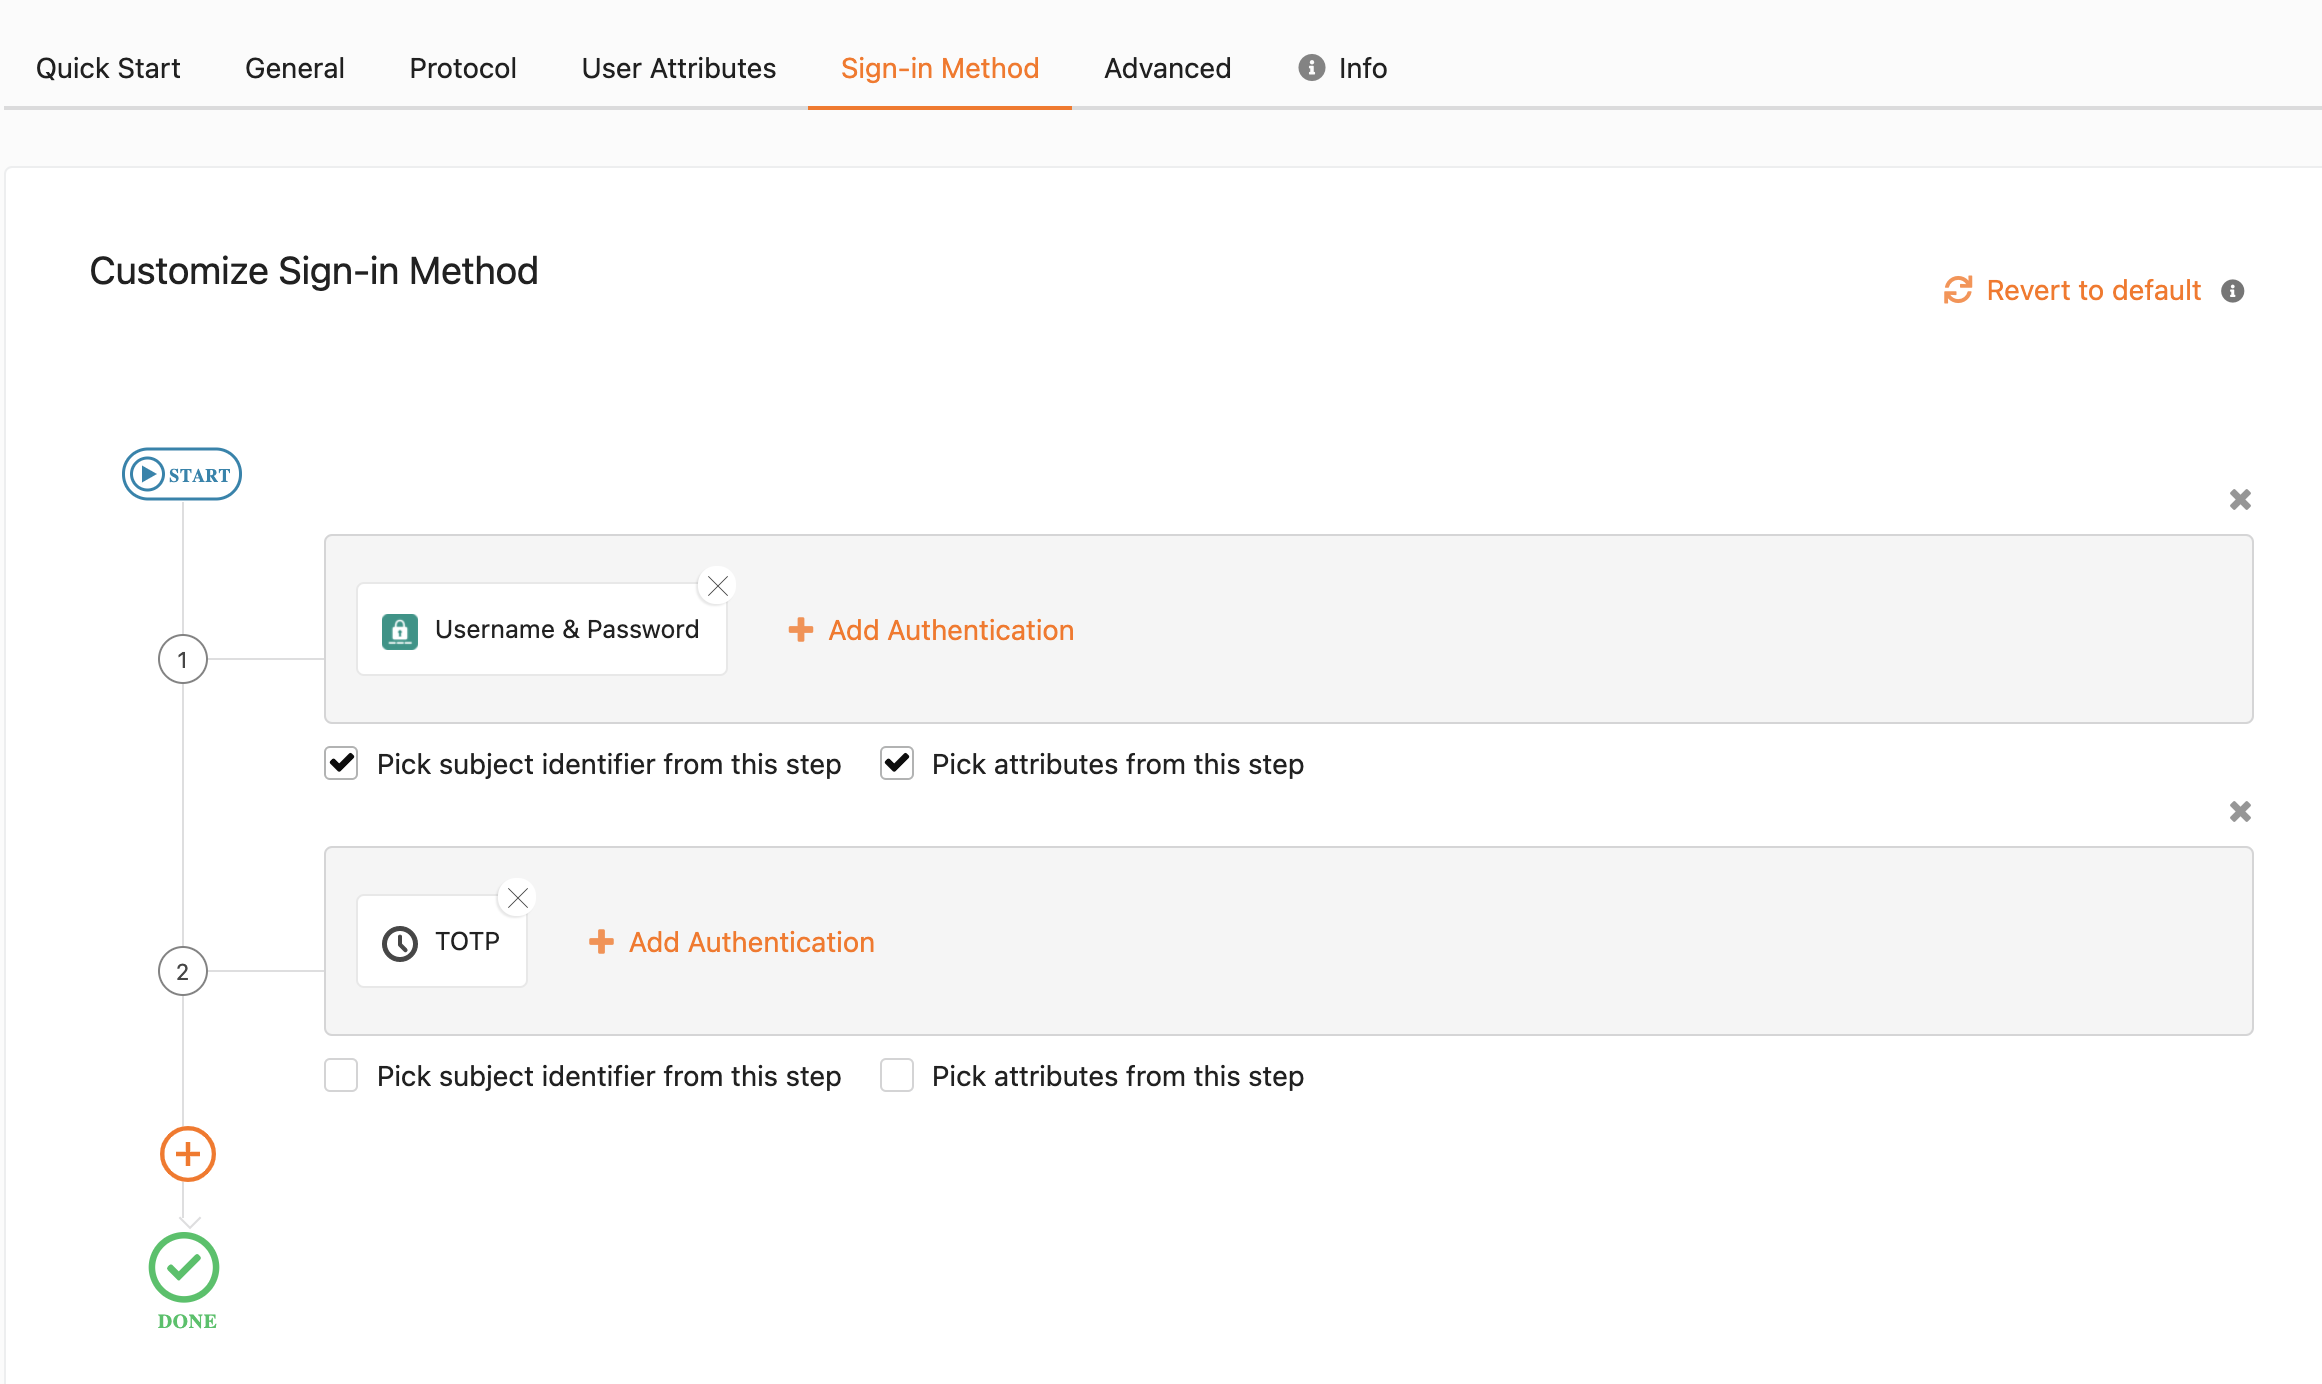
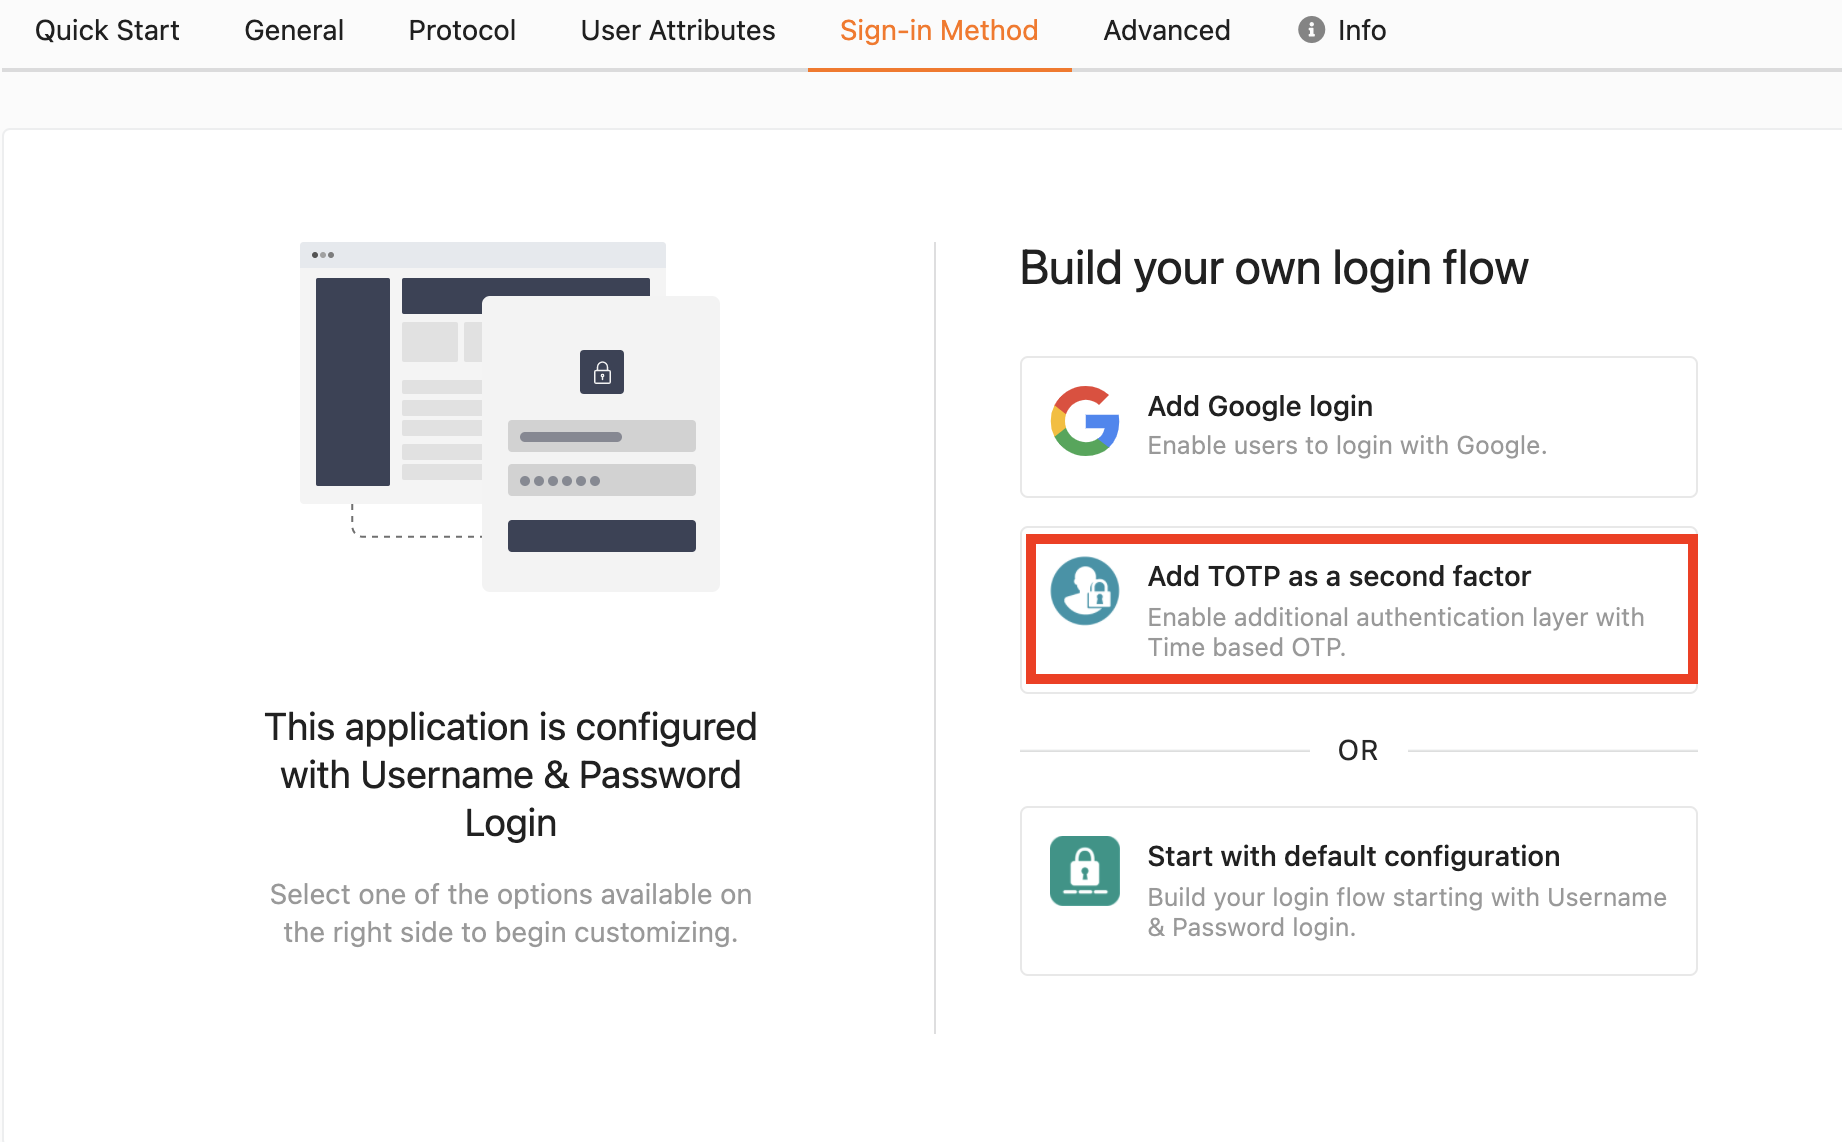
Tested MFA docs

diff --git a/docs/guides/authentication/mfa/add-totp-login.md b/docs/guides/authentication/mfa/add-totp-login.md
@@ -1,52 +1,68 @@
-# MFA with TOTP
+# Add MFA with TOTP
 
-The Time-based One Time Password(TOTP) is a temporary passcode, generated by an algorithm, which can be used only once. The algorithm that generates each password uses the current time of the day as one of its factors, ensuring that each password is unique.
+The Time-based One-Time Password (TOTP) is a temporary passcode, generated by an algorithm, which can be used only once. The algorithm that generates each password uses the current time of the day, which ensures that each password is unique.
 TOTP is considered more secure because the passcode is valid only for a short window of time. The TOTP generated by Asgardeo is valid for **30** seconds.
 
-TOTP authenticator uses the [TOTP specification](https://datatracker.ietf.org/doc/html/rfc6238) to calculate the access tokens based on the time and the shared secret key between the user and the identity provider.
-
-To use TOTP as a multi-factor authentication(MFA) option, users need to have an authenticator app that can scan the QR code and generate a one-time password. Some authenticator apps are:
+To use TOTP as a multi-factor authentication(MFA) option, application users need to have an authenticator app that can scan the QR code and generate a one-time password. Some authenticator apps are:
 - [Google Authenticator](https://play.google.com/store/apps/details?id=com.google.android.apps.authenticator2)
 - [Authy](https://play.google.com/store/apps/details?id=com.authy.authy)
 
+::: info
+TOTP authenticators use the [TOTP specification](https://datatracker.ietf.org/doc/html/rfc6238) to calculate access tokens based on the current time and the secret key shared between the user and the identity provider.
+:::
+
 ## Prerequisites
--   To get started, you need to have an application registered in Asgardeo. If you don't already have, register one of the following application types.
+-   To get started, you need to have an application registered in Asgardeo. If you don't already have one, register one of the following application types.
     -   <a :href="$withBase('/guides/applications/register-single-page-app/')">Single-page app</a>
     -   <a :href="$withBase('/guides/applications/register-oidc-web-app/')">Web app with OIDC</a>
     -   <a :href="$withBase('/guides/applications/register-saml-web-app/')">Web app with SAML</a>
 -   Download and install one of the authenticator apps mentioned above.
 
 ::: info Info
- - You can use TOTP for multi-factor authentication only if a previous authentication step is configured with **username and password** or another factor.   
+ - You can use TOTP for multi-factor authentication only if a previous authentication step is configured with **username and password** or another factor that can validate user credentials.
  - TOTP cannot be used as the first step of your login flow.
- - Federated users(users who are authenticated with external IdPs) can log in with TOTP MFA option.
+ - Federated users (users who are authenticated using external IdPs) can log in with TOTP MFA option.
 :::
 
-
 ## Enable TOTP for an app
-To enable TOTP as a factor for multi-factor authentication, you need to add **TOTP** in the authentication flow of an application. The steps given below will guide you on how to enable TOTP for an application:
-1. On the Asgardeo console, there are two ways to start enabling TOTP for an application. Follow either of the options given below.
- - Option1: Navigate to **Develop > Applications**.
- - Option2: Navigate to **Connections > TOTP** and click **Set up**.
-2. Select the application for which the TOTP needs to be added.
-3. Go to the **Sign-in Method** tab.
-4. Click **Add TOTP as a second factor**. This will add TOTP as a second factor authenticator.
-    <img :src="$withBase('/assets/img/guides/mfa/totp/add-totp-authenticator.png')" alt="Configuring TOTP authenticator in Asgardeo">
-5. Click **Update**.
+
+Follow the steps given below to enable **TOTP** as the second factor in the login flow of your application. 
+
+1. On the Asgardeo console, use one of the following options to start:
+    - Option 1: Go to **Develop > Applications**.
+    - Option 2: Go to **Connections > TOTP** and click **Set up**.
+2. Select the application for which TOTP needs to be added.
+3. Go to the **Sign-in Method** tab and add the TOTP authenticator:
+
+    - If you don't have a customized login flow, you can click **Add TOTP as a second factor**. 
+
+      <img :src="$withBase('/assets/img/guides/mfa/totp/add-totp-authenticator.png')" alt="Configuring TOTP authenticator in Asgardeo">
+    
+      This opens the customized login flow with TOTP as a second-factor authenticator:
+    
+    - If you have an already customized login flow, you can add a second step and add TOTP as the authenticator.
+
+      <img :src="$withBase('/assets/img/guides/mfa/totp/view-totp-authenticator.png')" alt="Customize the login flow">
+
+5. Click **Update** to save your changes.
 
 ## Enroll TOTP during first login 
-Users can enroll for TOTP notification from the first login to the business application using some authenticator apps. Follow the steps as a user who wants to access the authenticator app from your mobile and enroll to TOTP.
-1. Download authenticator.
-2. Log in to the application. You are prompted with a QR code.
-3. Scan the code and click **Continue**. 
+
+Application users can enroll for TOTP notifications when they log in to the business application the first time. Given below are the steps that a user will follow:
+
+1. Download an authenticator app to a mobile device.
+2. Try to log in to the application by providing credentials. The user is prompted with a QR code.
+3. Scan the QR code using the authenticator app, select the checkbox, and click **Continue**. 
     ::: info
-        This step is prompted only when you attempt to log in for the first time.
+    Note that this step is prompted only when the user attempts to log in for the first time.
     :::
     <img :src="$withBase('/assets/img/guides/mfa/totp/scan-qr-code-totp.png')" alt="QR code for TOTP authenticator in Asgardeo" width="500">
-4. Check your authenticator for which you used to scan the code.
+4. Check the authenticator app and see that the TOTP is generated.
     <img :src="$withBase('/assets/img/guides/mfa/totp/google-authenticator.png')" alt="OTP token from the authenticator" width="300">
-5. Enter the OTP by checking the authenticator app.
+5. Enter the TOTP:
     <img :src="$withBase('/assets/img/guides/mfa/totp/enter-otp-token.png')" alt="User enters OTP token in Asgardeo" width="300">
-6. Click **Continue**.
+6. Click **Continue** to continue login.
 
+::: info
 If the QR code is deleted from the authenticator app, there is no way to recover it from the application's end. In a scenario like this, the user should enroll TOTP through the <b>Multi Factor Authentication</b> option in the My Account portal. Learn more about <a :href="$withBase('/guides/user-self-service/enable-totp/')">enrolling TOTP from My Account</a>.
+:::

diff --git a/docs/guides/authentication/mfa/add-emailotp-login.md b/docs/guides/authentication/mfa/add-emailotp-login.md
@@ -1,4 +1,4 @@
-# MFA with Email OTP
+# Add MFA with Email OTP
 
 Email OTP is a One-Time Password (OTP) sent to the user's verified email address, which the user must submit during login (as an additional authentication step). This password is typically valid for a very short period of time. 
 
@@ -7,15 +7,15 @@ During Email OTP authentication, the user is required to access the verified ema
 Follow the instructions given below to configure Multi-Factor Authentication (MFA) using Email OTP in Asgardeo.
 
 ## Prerequisites
-To get started, you need to have an application registered in Asgardeo. If you don't already have one, register an application of one of the following application types.
+To get started, you need to have an application registered in Asgardeo. If you don't already have one, register an application for one of the following application types.
 
 -   <a :href="$withBase('/guides/applications/register-single-page-app/')">Single-page app</a>
 -   <a :href="$withBase('/guides/applications/register-oidc-web-app/')">Web app with OIDC</a>
 -   <a :href="$withBase('/guides/applications/register-saml-web-app/')">Web app with SAML</a>
 
 ::: info Info
-- You can use Email OTP for multi-factor authentication only if a previous authentication step is configured with **username and password**.  
-- Email OTP cannot be used as a first step in your login flow.
+- You can use Email OTP for multi-factor authentication only if a previous authentication step is configured with **username and password** or another factor that can validate user credentials.
+- Email OTP cannot be used as the first step in your login flow.
 :::
   
 ## Set up Email OTP
@@ -48,19 +48,22 @@ To update the default Email OTP settings:
 To enable Email OTP for MFA, you need to add **Email OTP** in the authentication flow of the application.
 
 Follow the steps given below.
-1. In the Asgardeo Console, go to **Develop > Applications**.
+1. On the Asgardeo Console, go to **Develop > Applications**.
 2. Select the application to add Email OTP.
 3. Go to the **Sign-in Method** tab of the selected application.
-4. Click **Start with default configuration**. 
-5. Add a new step and click **Add Authentication**.
-6. Select **Email OTP** and click **Add**.
+4. Click **Start with default configuration** and add a new step to the login flow.
+5. Click **Add Authentication**, select **Email OTP**, and click **Add**.
+   
+   ::: info
    This adds Email OTP as an authentication option for the configured step.
-    <img :src="$withBase('/assets/img/guides/mfa/emailotp/enable-email-otp.png')" alt="Enable email OTP authenticator in Asgardeo">
-7. Click **Update**.
+   :::
+
+   <img :src="$withBase('/assets/img/guides/mfa/emailotp/enable-email-otp.png')" alt="Enable email OTP authenticator in Asgardeo">
+6. Click **Update** to save your changes.
 
 ## How it works
 
-If Email OTP is enabled in the authentication flow of your application, the customer is prompted with the Email OTP authentication step once the first authentication step is completed. Given below are the high-level steps that follow:
+When Email OTP is enabled in the login flow of your application, the application user will be prompted with the Email OTP authentication step once the first authentication step is completed. Given below are the high-level steps that follow:
 
 1. Asgardeo sends the OTP to the user's verified email address.
 2. Asgardeo prompts the user to enter the OTP code.

diff --git a/docs/guides/authentication/mfa/README.md b/docs/guides/authentication/mfa/README.md
@@ -1,6 +1,6 @@
 # Add Multi-Factor Authentication
 
-Multi-Factor Authentication (MFA) allows you to grant access to your resources by using two (2-Factor) or more (Multi-Factor) factors to authenticate users. If one factor is compromised or broken, an attacker still has at least one more barrier to breach before successfully breaking into the resource. MFA provides an additional layer of security to the resource.
+Multi-Factor Authentication (MFA) allows you to grant access to your resources by using two (2-Factor) or more (Multi-Factor) factors to authenticate users. If one factor is compromised or broken, an attacker still has at least one more barrier to breach before successfully breaking in to the resource. MFA provides an additional layer of security to the resource.
 
 Authentication factors in MFA relies on two or more independent credentials of the three categories given below.
 
@@ -8,7 +8,7 @@ Authentication factors in MFA relies on two or more independent credentials of t
 - **Possession factor** - Something you have, such as a FIDO key or an ATM card.
 - **Inherence factor**  - Something you are, such as your fingerprint or your iris pattern.
 
-In Asgardeo, the default authentication mechanism is **username and password**. 
+On Asgardeo, the default authentication mechanism is **username and password**. 
 
 <img class="borderless-img" :src="$withBase('/assets/img/guides/mfa/one-factor-auth.png')" alt="Configuring only username and password authentication">
 
@@ -20,9 +20,16 @@ You can choose to replace the **username and password** authentication with soci
 
 ## Configure multi-factor authentication
 
-1. On the Asgardeo console, navigate to **Develop > Applications** and select the application to which MFA needs to be added.
-2. Go to **Sign-in Method**.
-3. Select **Add Authentication** in the step that you want to add an additional factor of authentication.
-3. Select a factor and click **Add**.
+Given below are the main steps you will follow when enabling MFA in your login flow.
+
+1. On the Asgardeo console, go to **Develop > Applications** and select the application to which MFA needs to be added.
+2. Go to the **Sign-in Method** tab where ther application login flow is defined.
+3. Select **Add Authentication** and add the required authenticators that should be enforced at each step.
     <img :src="$withBase('/assets/img/guides/mfa/totp/add-totp-authenticator.png')" alt="Configuring TOTP authenticator in Asgardeo">
-4. Click **Update**.
+
+## WHat's next?
+
+Learn how to enable MFA using the following authenticators:
+
+- <a :href="$withBase('/guides/authentication/mfa/add-totp-login/')">TOTP</a>
+- <a :href="$withBase('/guides/authentication/mfa/add-emailotp-login/')">Email OTP</a>
